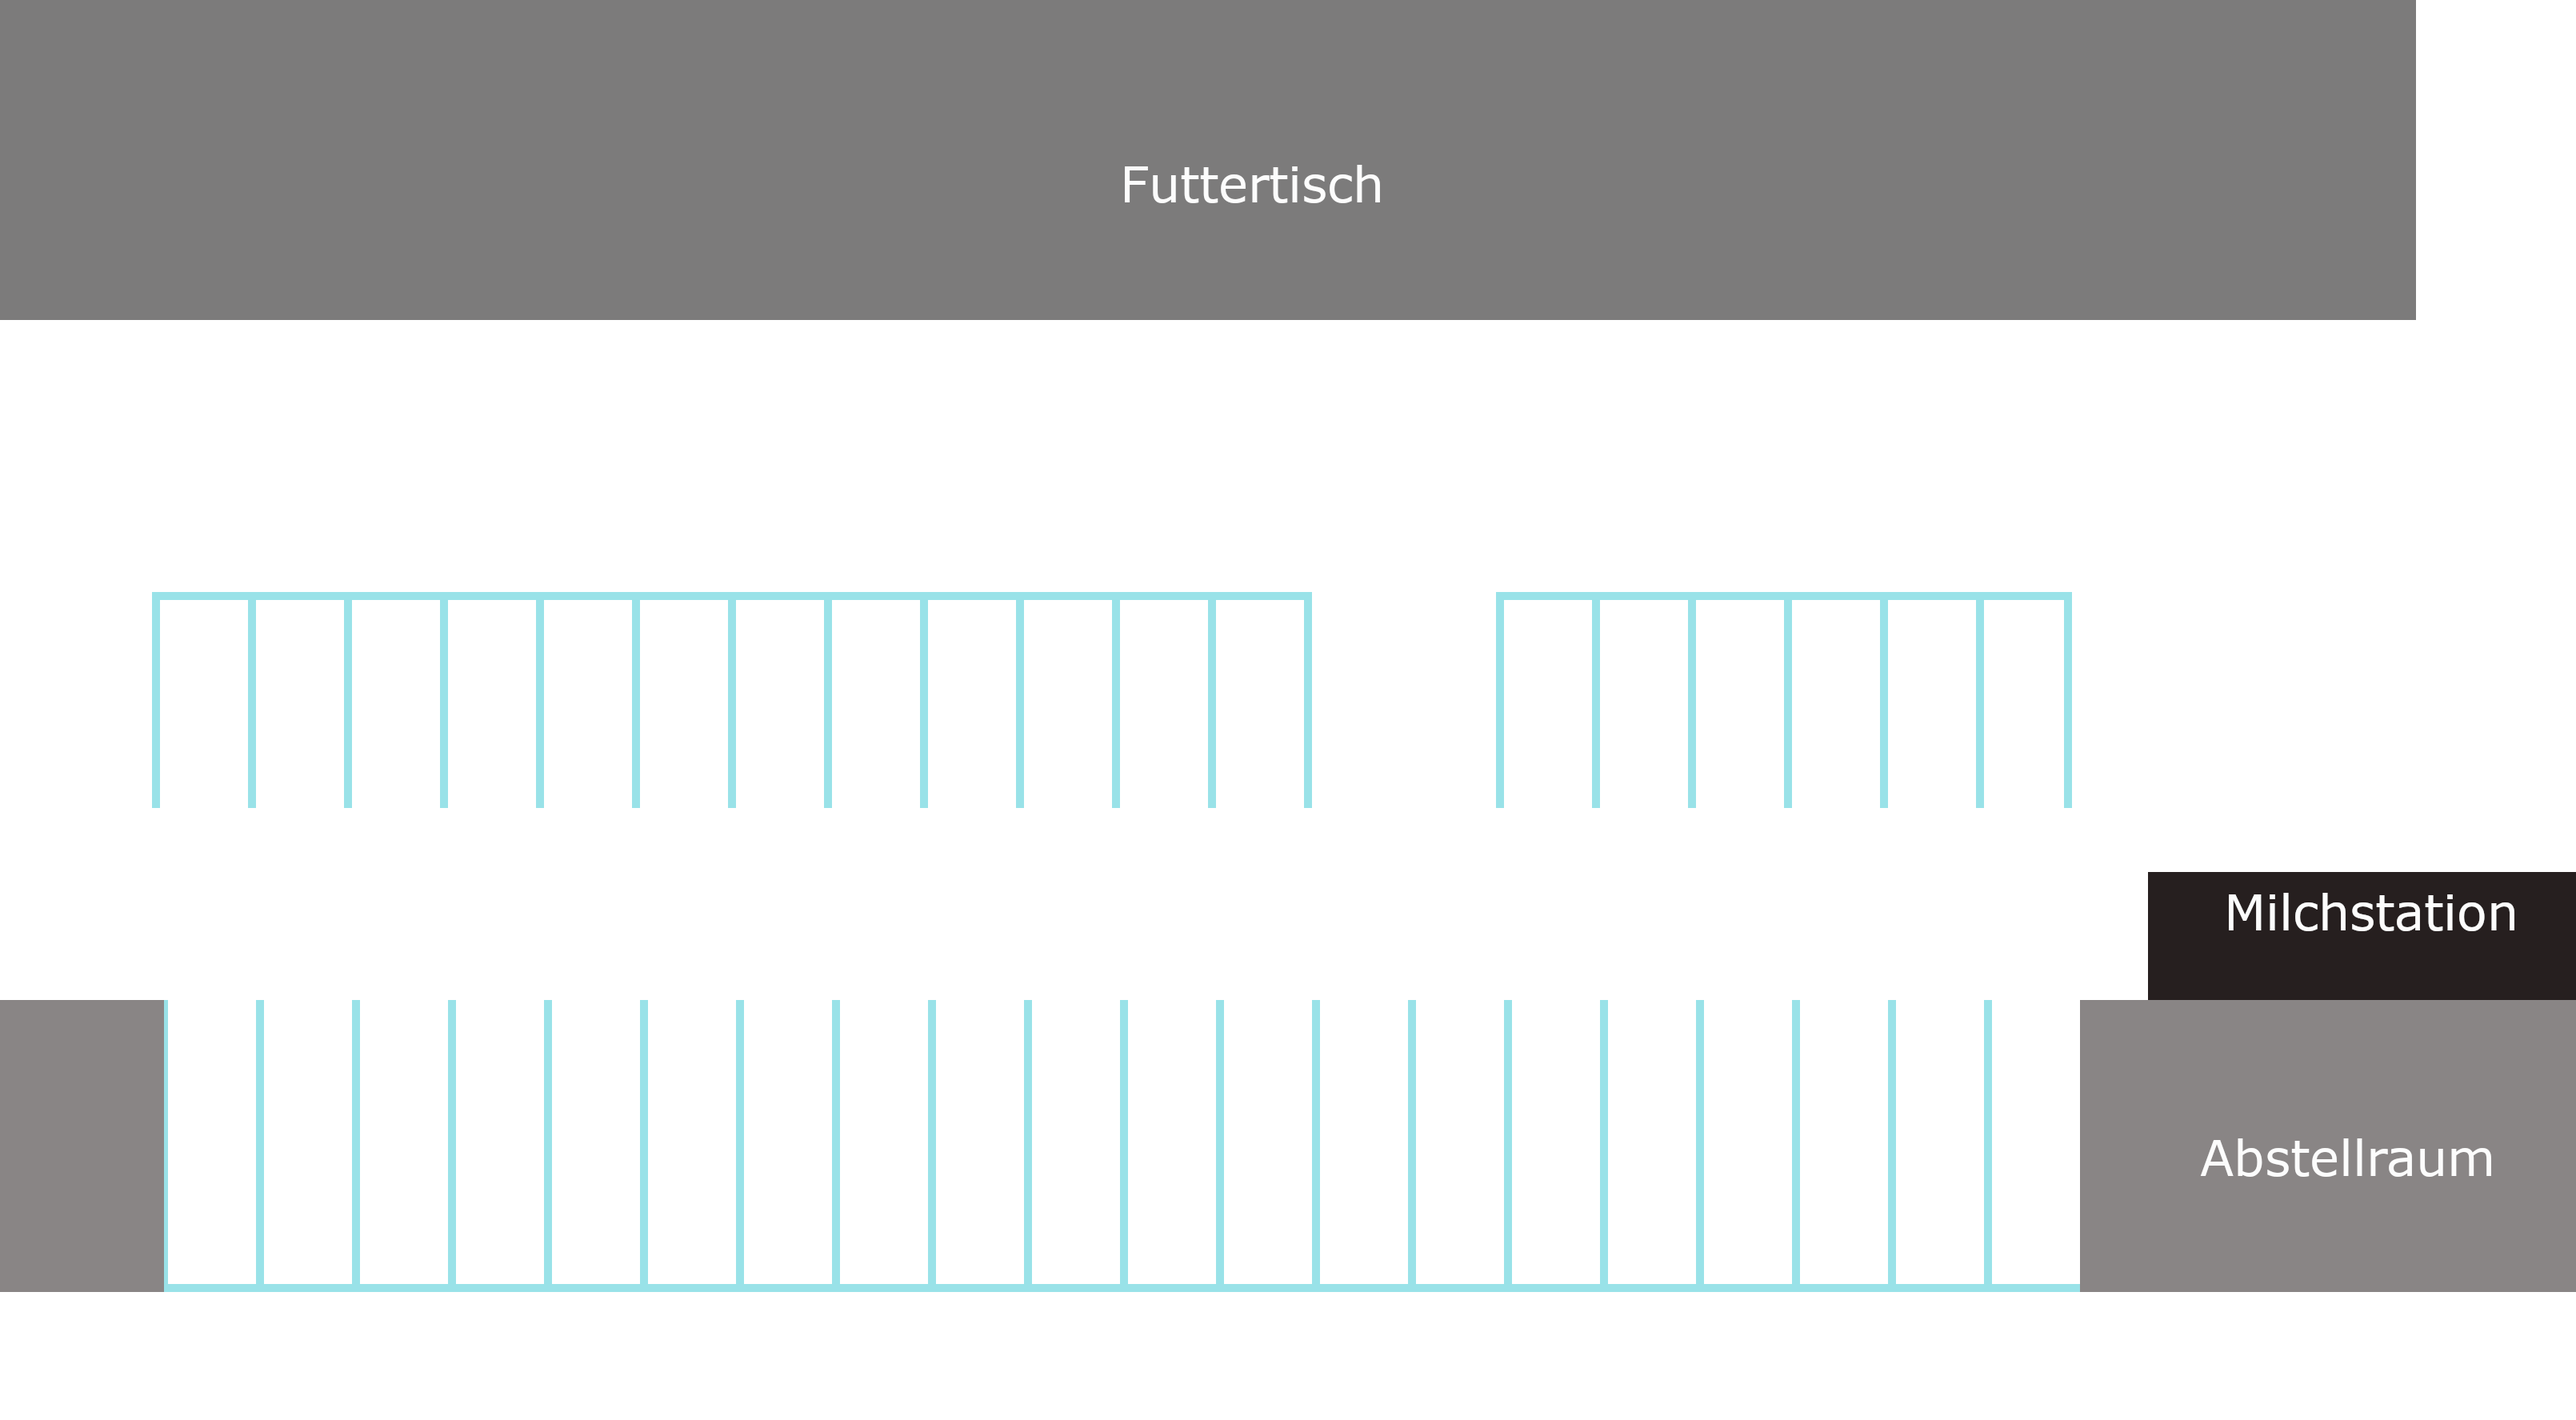
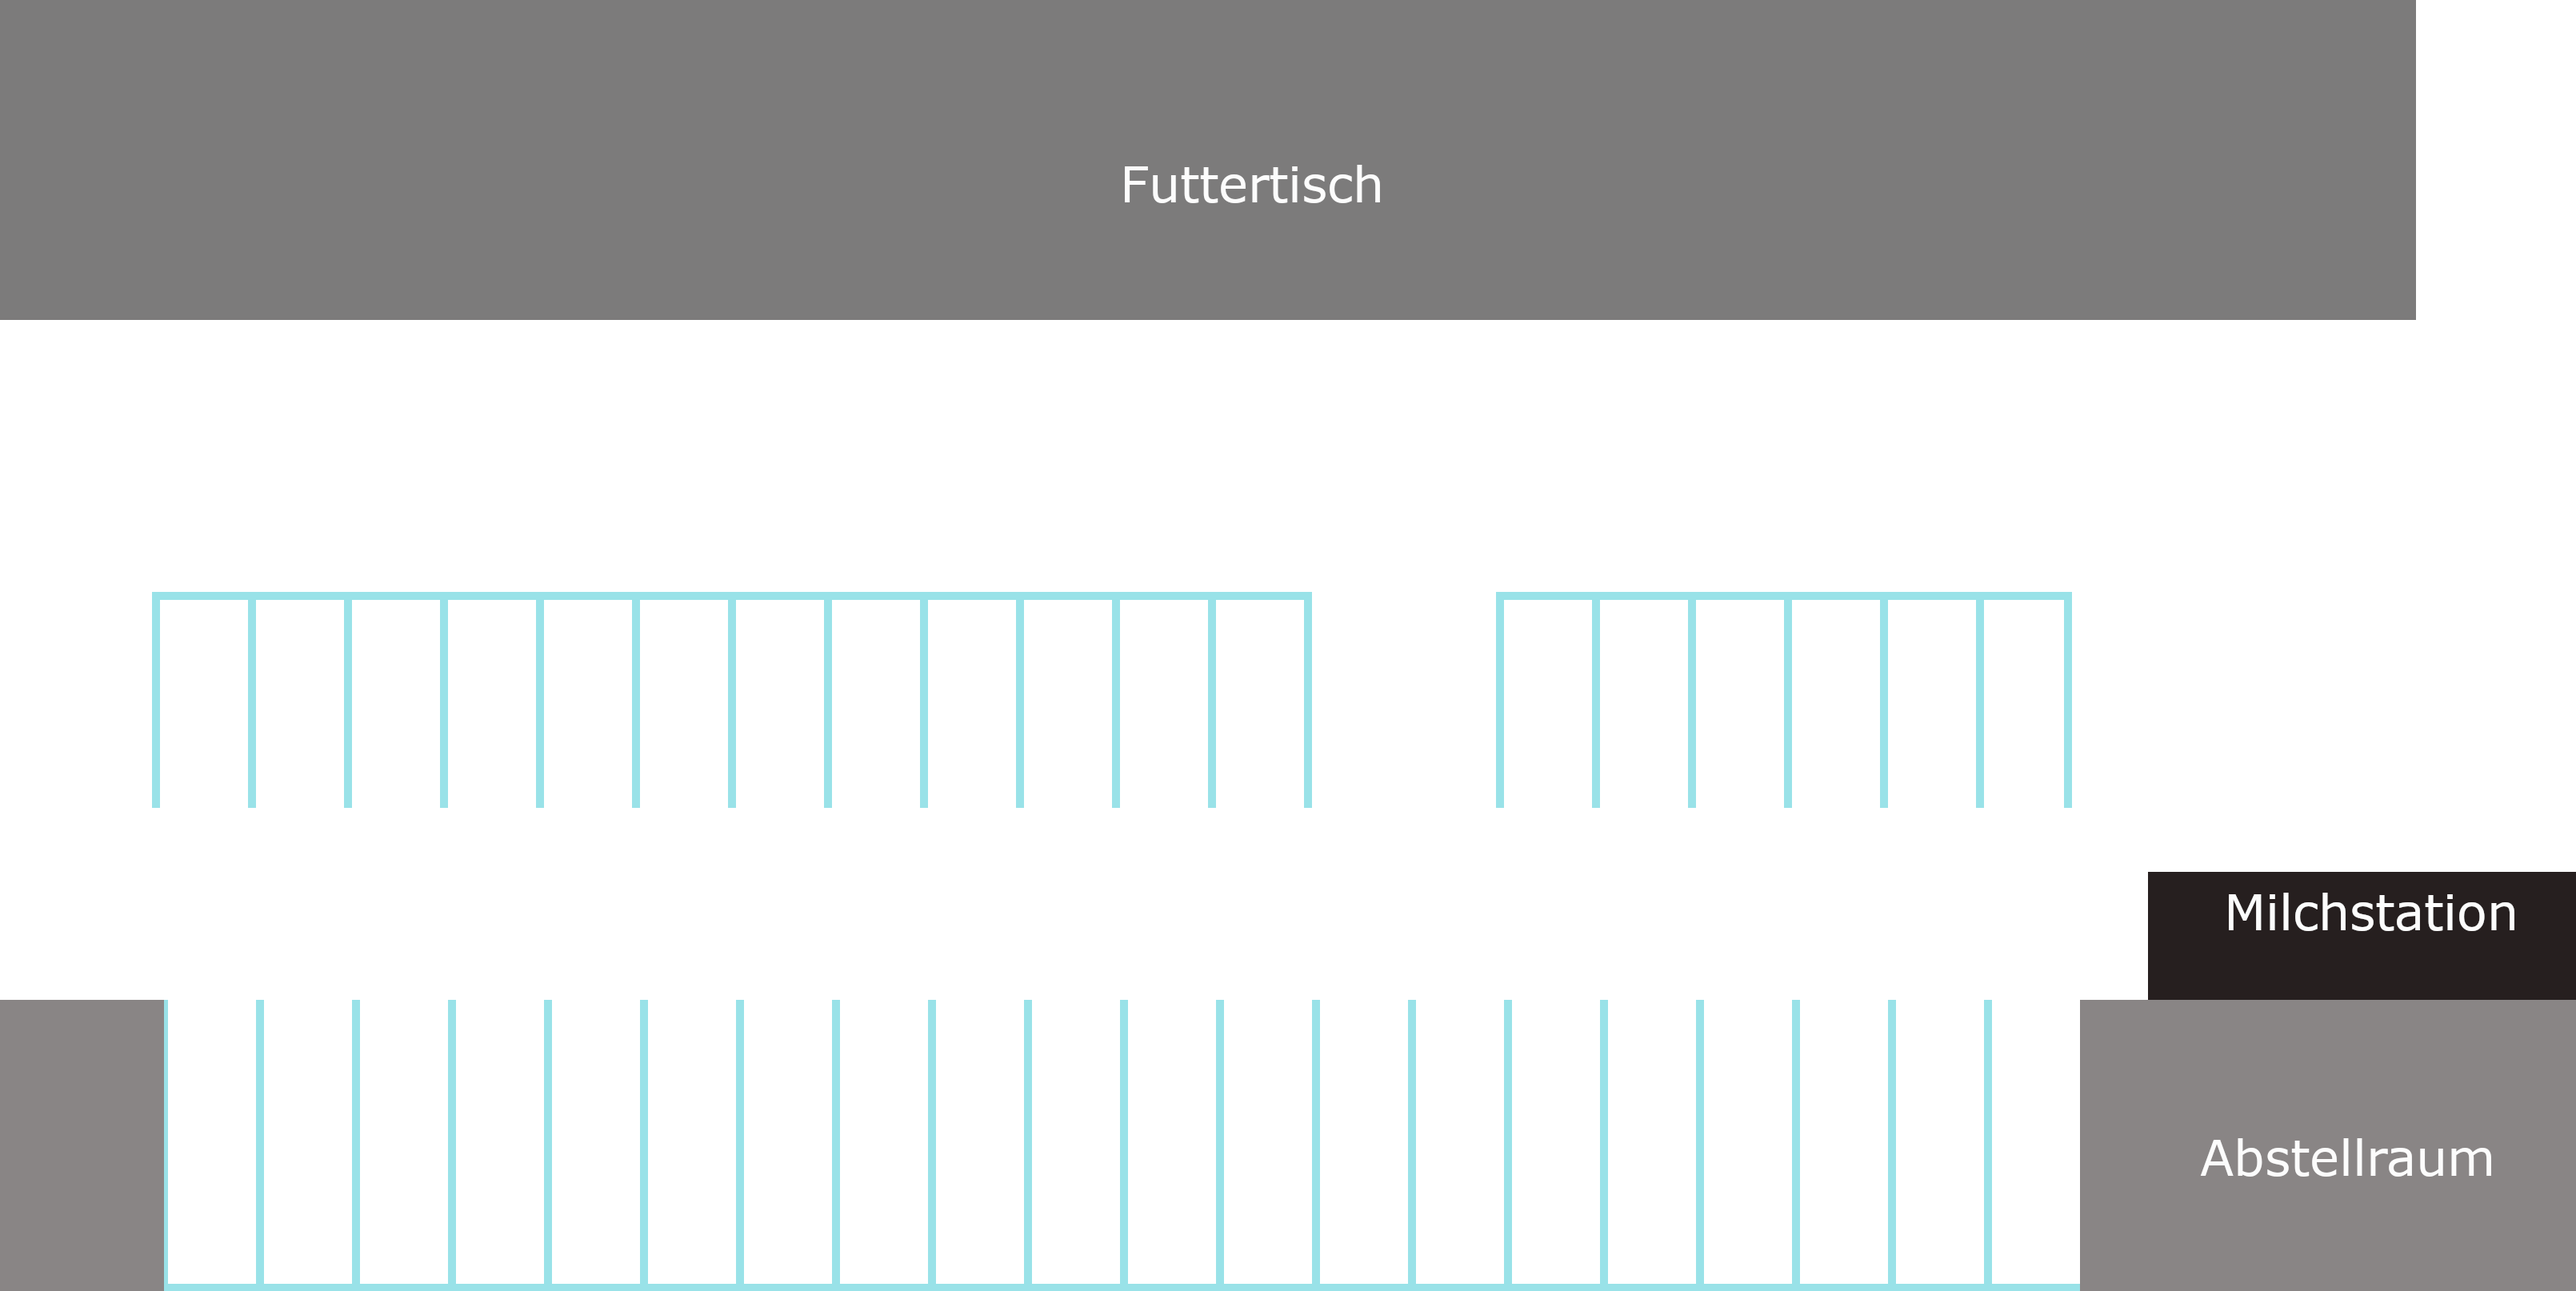
new stall dimensions

diff --git a/app/components/stallmonitor.js b/app/components/stallmonitor.js
@@ -12,7 +12,7 @@ export default class Stallmonitor extends React.Component
         super(props);
         this.state = {
           width: 3220,
-          height: 1775,
+          height: 1614,
           coordinates: [{}],
           loading: true,
         };
@@ -30,7 +30,7 @@ export default class Stallmonitor extends React.Component
                     { x: 300, y: 400, label: "kuh2" }, // Example point
                     { x: 671, y: 473, label: "kuh3" }, // Example point
                     { x: 0, y: 0, label: "minimum" }, // Example point
-                    { x: 3220, y: 1775, label: "maximum" }, // Example point
+                    { x: 3220, y: 1614, label: "maximum" }, // Example point
                     // Add more points as needed
                   ],
                 loading: false,
@@ -62,9 +62,9 @@ export default class Stallmonitor extends React.Component
                     <h1>LWK Stall</h1>
 
                     <div className="svgContainer">
-                        {/*<svg width={width} height={height}>*/}
+                        {/*<svg width={width} height={height}> "0 0 3220 1775" */}
                         <svg
-                            viewBox="0 0 3220 1775"
+                            viewBox= {`0 0 ${width} ${height}`}
                             width="100%"
                             height="100%">
 
